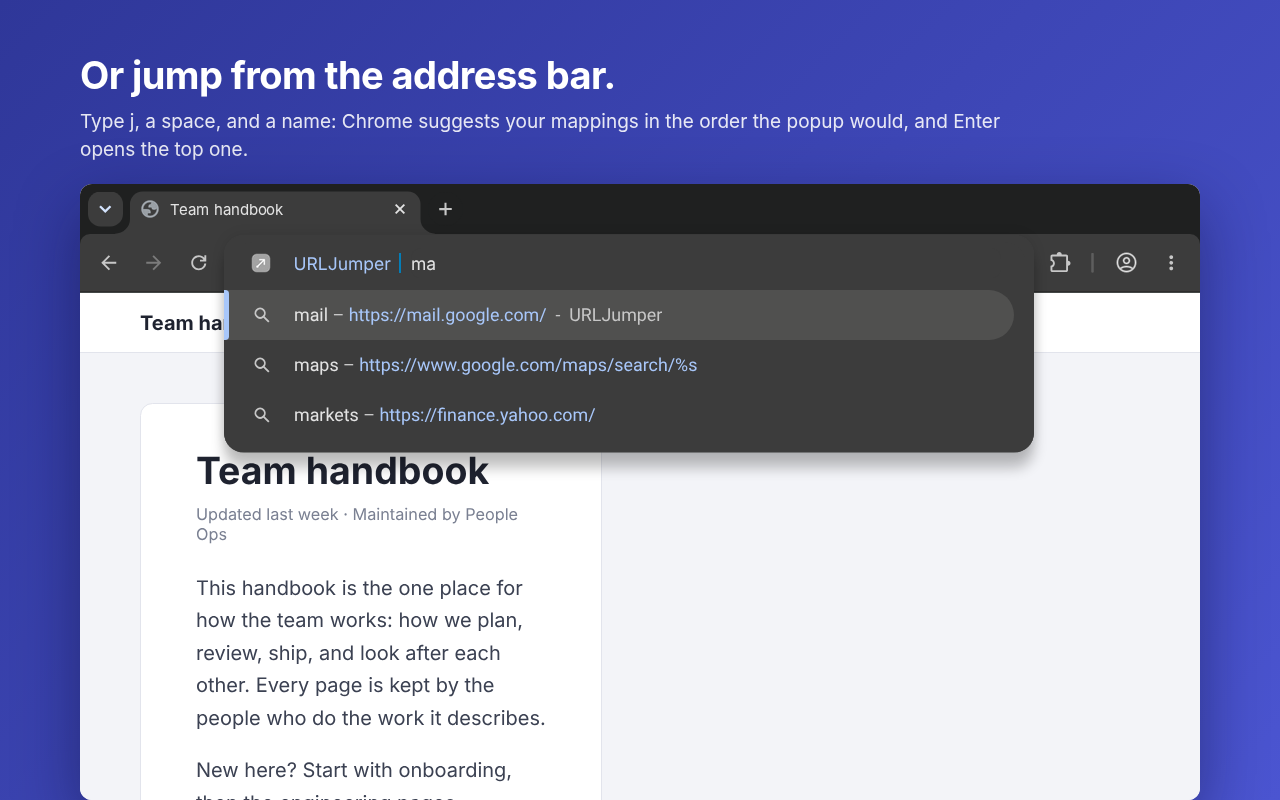
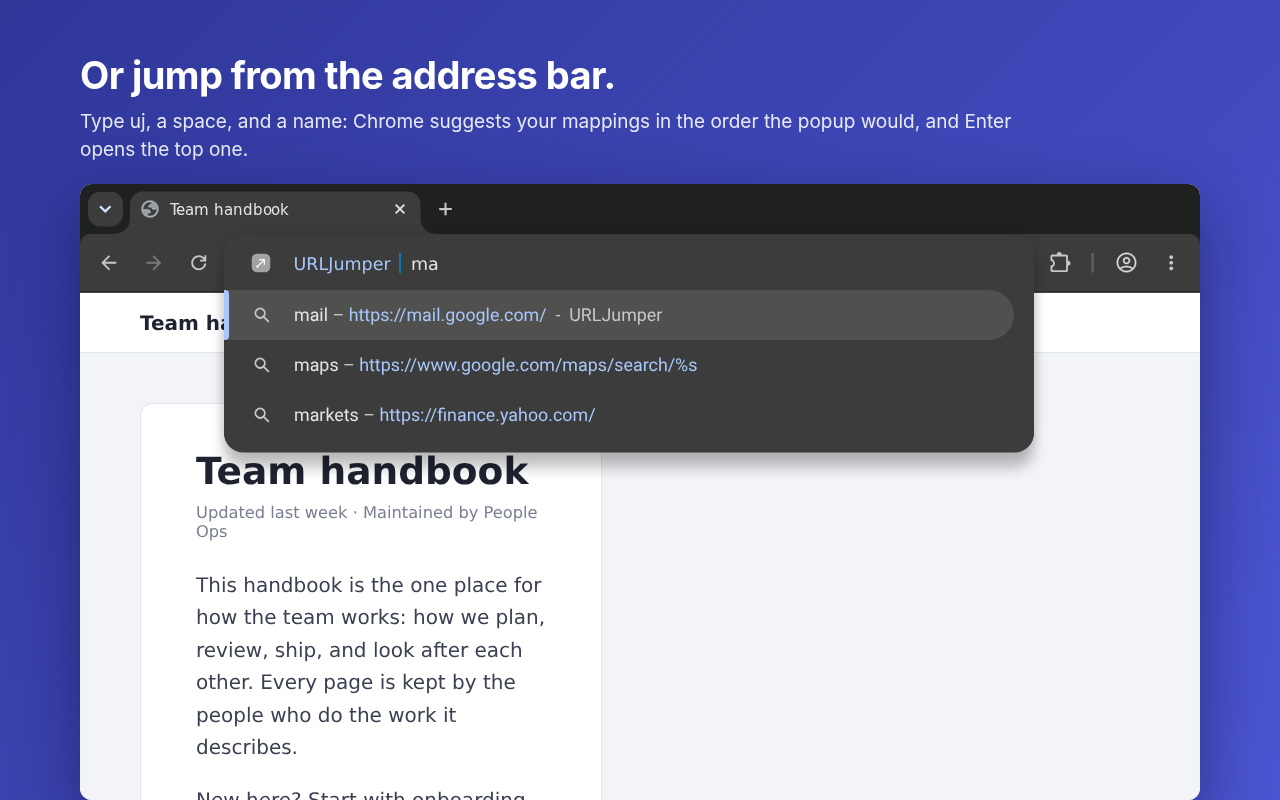
Make the address-bar keyword uj, freeing j for users' own site searches
Chrome gives an extension's omnibox keyword precedence over a site search the
user made with the same keyword, so the keyword j hid any j shortcut of the
user's own, with no way to change it short of disabling the extension. The
keyword is now uj, one a user is unlikely to have made; a user's j shortcut is
used again once the extension no longer declares j.

F6 and every line naming the keyword move to uj, and S16 records Chrome's rule
for conflicting keywords. The what's-new page, the store listing and its
address-bar screenshot, the release instructions, and the checks follow.

diff --git a/e2e/address-bar.spec.ts b/e2e/address-bar.spec.ts
@@ -1,4 +1,4 @@
-// The address-bar keyword `j` (In use, "Jump from the address bar"; F6, G28): the text typed after it lists the
+// The address-bar keyword `uj` (In use, "Jump from the address bar"; F6, G28): the text typed after it lists the
 // popup's mappings for the same text, groups (a) to (e) in G2's order, row 1 the default, each described by
 // its name and URL in XML Chrome parses; Enter opens the row Chrome hands back, from the `omnibox` record the
 // worker keeps (State; S2, S7), through the one jump, which records the use (G26), in the tab Chrome's
@@ -166,7 +166,7 @@ test("Chrome's own autocomplete shows the list in its order however long it is, 
   const shown = await chromeShows(extension.context, 'a');
   // Chrome shows a tab in a name as nothing, so the third row reads like the second.
   expect(shown.map(({ contents }) => contents)).toEqual(['a – https://a.example/', 'ab – https://ab.example/', 'ab – https://atb.example/']);
-  expect(shown.map(({ fillIntoEdit }) => fillIntoEdit)).toEqual(['j a', 'j ab', 'j ab (line 3)']);
+  expect(shown.map(({ fillIntoEdit }) => fillIntoEdit)).toEqual(['uj a', 'uj ab', 'uj ab (line 3)']);
 });
 
 test("every description is XML Chrome's parser takes, reading as the name and the URL, as row 1 and as a later row", async ({ extension }) => {

diff --git a/e2e/address-bar.ts b/e2e/address-bar.ts
@@ -1,4 +1,4 @@
-// Chrome's address bar, which headless Chrome cannot show: what a check needs to type after the keyword `j`
+// Chrome's address bar, which headless Chrome cannot show: what a check needs to type after the keyword `uj`
 // and press Enter there, re-exported by e2e/extension.ts. `addressBar` dispatches Chrome's omnibox events to the
 // worker's own listeners with the arguments Chrome passes; what the worker hands Chrome is recorded on the
 // way and still reaches it. `chromeShows` has Chrome's own autocomplete call the worker and reads the rows it shows.
@@ -114,7 +114,7 @@ export async function chromeShows(context: BrowserContext, text: string): Promis
       await page.getByRole('button', { name: 'Disable internal debugging pages', exact: true }).waitFor();
     }
     await page.goto('chrome://omnibox');
-    const input = `j ${text}`;
+    const input = `uj ${text}`;
     await page.locator('#input-text').fill(input);
     // `responsesHistory` is the page's own record of each autocomplete pass for the latest input.
     await page.waitForFunction((input) => {

diff --git a/e2e/upgrade-notice.spec.ts b/e2e/upgrade-notice.spec.ts
@@ -386,7 +386,7 @@ test("the what's-new page names URLJumper and the five changes, follows the stor
     'A name typed in full comes first',
     'Search through a name with %s',
     'Name this page',
-    'The keyword j in the address bar',
+    'The keyword uj in the address bar',
     'Smart order',
   ]);
   await expect(items.nth(0)).toContainText('an earlier line');
@@ -395,7 +395,7 @@ test("the what's-new page names URLJumper and the five changes, follows the stor
   await expect(items.nth(2)).toContainText('Name this page in URLJumper');
   await expect(items.nth(2)).toContainText('Name this link in URLJumper');
   await expect(items.nth(2)).toContainText('its last row');
-  await expect(items.nth(3)).toContainText('type j, a space, and a name');
+  await expect(items.nth(3)).toContainText('type uj, a space, and a name');
   await expect(items.nth(4)).toContainText('It is off for you');
   await expect(items.nth(4)).toContainText('Preferences');
   expect(await page.locator('body').textContent()).not.toMatch(/URL Jumper/);

diff --git a/e2e/preferences.spec.ts b/e2e/preferences.spec.ts
@@ -252,14 +252,14 @@ test("a choice Chrome refuses to store leaves the stored one shown and says so w
   await checkFitAndAccessibility(popup);
 });
 
-test('the keyword shows as j, as text in both hosts and in no field', async ({ extension, site }) => {
+test('the keyword shows as uj, as text in both hosts and in no field', async ({ extension, site }) => {
   await extension.seedStorage({ mappings: DOC });
   const options = await optionsPage(extension);
   const { popup } = await settingsInPopup(extension, site);
   for (const page of [popup, options]) {
     const section = page.getByRole('region', { name: 'Address bar' });
-    await expect(section).toContainText("In Chrome's address bar, type j and a space, then a name.");
-    await expect(section.locator('kbd')).toHaveText('j');
+    await expect(section).toContainText("In Chrome's address bar, type uj and a space, then a name.");
+    await expect(section.locator('kbd')).toHaveText('uj');
     await expect(page.getByRole('textbox')).toHaveCount(0);
   }
 });

diff --git a/scripts/web-store-media.ts b/scripts/web-store-media.ts
@@ -103,7 +103,7 @@ const SCREENSHOTS: Record<'jump' | 'name' | 'argument' | 'document' | 'listDark'
   addressBar: {
     file: 'screenshot-6-address-bar.png',
     title: 'Or jump from the address bar.',
-    text: 'Type j, a space, and a name: Chrome suggests your mappings in the order the popup would, and Enter opens the top one.',
+    text: 'Type uj, a space, and a name: Chrome suggests your mappings in the order the popup would, and Enter opens the top one.',
     layout: 'top',
   },
 };
@@ -398,7 +398,7 @@ async function captureAll(display: string, site: { port: number; spki: string },
     dark.focusPage();
     execFileSync('xdotool', ['key', '--clearmodifiers', 'ctrl+l'], { env });
     await sleep(300);
-    execFileSync('xdotool', ['type', '--delay', '120', 'j '], { env });
+    execFileSync('xdotool', ['type', '--delay', '120', 'uj '], { env });
     await sleep(500);
     execFileSync('xdotool', ['type', '--delay', '120', 'ma'], { env });
     await sleep(1500);

diff --git a/e2e/release-zip.spec.ts b/e2e/release-zip.spec.ts
@@ -85,7 +85,7 @@ test("the upload's manifest declares exactly the released extension's keys and v
     'open-same-tab': shortcut('Alt+M'),
     'name-this-page': shortcut('Alt+Shift+N'),
   });
-  expect(manifest.omnibox).toEqual({ keyword: 'j' });
+  expect(manifest.omnibox).toEqual({ keyword: 'uj' });
   expect(manifest.content_security_policy).toEqual({ extension_pages: "default-src 'self'" });
   expect(manifest.background).toEqual({ service_worker: expect.stringMatching(/\.js$/), type: 'module' });
   expect(manifest.action).toEqual({ default_popup: 'popup.html', default_title: 'URLJumper' });

diff --git a/e2e/address-bar-search.spec.ts b/e2e/address-bar-search.spec.ts
@@ -1,4 +1,4 @@
-// Unmatched Enter in the address-bar keyword `j` (F8, G28): one search, through Chrome's configured default
+// Unmatched Enter in the address-bar keyword `uj` (F8, G28): one search, through Chrome's configured default
 // search engine, for the text after the keyword, in the tab Chrome's disposition selects and in the window
 // Enter was pressed in. The engines are real site searches Chrome's settings stores at local addresses, so a
 // hardcoded provider cannot pass. Blank input still opens nothing, and a stored no-match stays a search when

diff --git a/src/service-worker/address-bar.ts b/src/service-worker/address-bar.ts
@@ -1,4 +1,4 @@
-// The address-bar keyword `j` (F6, G28): each input lists the popup's mappings for the text as Chrome's
+// The address-bar keyword `uj` (F6, G28): each input lists the popup's mappings for the text as Chrome's
 // suggestions, and Enter opens the chosen one through the one *jump*, which records the use (G26), or searches
 // unmatched text through Chrome's default engine without recording a mapping use. Both run
 // on the worker's queue, so an input's record is stored before the next input's and before the Enter that

diff --git a/whats-new.html b/whats-new.html
@@ -36,9 +36,9 @@
           </p>
         </li>
         <li>
-          <h2>The keyword <kbd>j</kbd> in the address bar</h2>
+          <h2>The keyword <kbd>uj</kbd> in the address bar</h2>
           <p>
-            In Chrome's address bar, type <kbd>j</kbd>, a space, and a name: Chrome suggests your mappings, in the order
+            In Chrome's address bar, type <kbd>uj</kbd>, a space, and a name: Chrome suggests your mappings, in the order
             the popup lists them, and Enter opens one.
           </p>
         </li>

diff --git a/src/service-worker/address-bar-suggestions.ts b/src/service-worker/address-bar-suggestions.ts
@@ -1,4 +1,4 @@
-// What the address-bar keyword `j` lists and opens (G28), without Chrome's API, which `address-bar.ts` calls:
+// What the address-bar keyword `uj` lists and opens (G28), without Chrome's API, which `address-bar.ts` calls:
 // the popup's list for the typed text, groups (a) to (e), as Chrome's suggestions, each with the content Chrome
 // hands back when it is chosen and the description it shows; the record of that list kept in `omnibox`
 // (State); and which row an entered text opens (How G28).

diff --git a/manifest.config.ts b/manifest.config.ts
@@ -39,6 +39,7 @@ export default defineManifest({
       description: 'Name this page in URLJumper',
     },
   },
-  omnibox: { keyword: 'j' },
+  // Not a single letter: Chrome lets an extension's keyword override a site search the user made with the same one (F6).
+  omnibox: { keyword: 'uj' },
   content_security_policy: { extension_pages: "default-src 'self'" },
 });

diff --git a/PRODUCT_SPECIFICATION.md b/PRODUCT_SPECIFICATION.md
@@ -10,7 +10,7 @@ URLJumper is a Chrome extension for one person who returns to the same web pages
 
 Version 2.0 replaces version 1.x and serves three people. The long-time user has a hand-maintained document, often with comment lines as section headings and columns aligned with spaces; their test is that everything they had still works the same way and nothing moved their lines. The newcomer installs from the Chrome Web Store, sees nothing, and needs a first mapping in without reading a grammar; their test is that they were on a page, gave it a name, and the next time they typed that name they were there. The daily user has dozens to hundreds of mappings and wants the one they use daily to come up first, wants to pass a search term through a name, and wants to reach the popup without taking hands off the keyboard.
 
-What they get, beyond everything 1.x gave (the popup, the document edited as text with Save, Import and Export, Copy tab URL, light and dark theme, two shortcuts): **Name this page**, which turns the current page or a right-clicked link into a mapping with one action and one name; a **List view** that edits the same document line by line without a grammar; **argument aliases**, where a URL containing `%s` takes the text typed after the name; **Smart order**, an optional ranking that puts recently used mappings first; **address matches**, a lower group for the day the user remembers the site but not the name; and an **address-bar keyword**, `j`, that offers the same mappings from Chrome's address bar.
+What they get, beyond everything 1.x gave (the popup, the document edited as text with Save, Import and Export, Copy tab URL, light and dark theme, two shortcuts): **Name this page**, which turns the current page or a right-clicked link into a mapping with one action and one name; a **List view** that edits the same document line by line without a grammar; **argument aliases**, where a URL containing `%s` takes the text typed after the name; **Smart order**, an optional ranking that puts recently used mappings first; **address matches**, a lower group for the day the user remembers the site but not the name; and an **address-bar keyword**, `uj`, that offers the same mappings from Chrome's address bar.
 
 What must not be lost is the document. The extension writes it only when the user saves text, asks for a single-line change, or loads the example mappings into an empty document, and a change is applied as a whole or not at all. Upgrading from 1.x leaves the stored document byte for byte, keeps the search order the user is used to, keeps their theme, and adds no permission that shows a warning.
 
@@ -30,7 +30,7 @@ Accepted limits, each of which also lowers the cost of building it:
 
 **Jump with an argument.** With the line `yt                   https://www.youtube.com/results?search_query=%s` in the document, the user types `yt lo-fi beats`. A row shows the filled URL, `https://www.youtube.com/results?search_query=lo-fi%20beats`; Enter opens it. Typing `yt` alone shows the mapping's URL with `%s` marked and a hint that Space and text fill it; Enter then opens the URL with `%s` empty.
 
-**Jump from the address bar.** The user presses Ctrl+L (⌘L on macOS), types `j`, a space, and `st`. Chrome's suggestions show the same mappings in the same order as the popup would, name and URL; the top match is the default. Enter opens it; Chrome's own modifier for opening a suggestion in a new tab applies. When nonblank text matches nothing, the one suggestion says that Enter searches with the user's default search engine, and Enter searches the text after `j` in the tab Chrome's modifier selects. With nothing typed after the keyword, Enter does nothing.
+**Jump from the address bar.** The user presses Ctrl+L (⌘L on macOS), types `uj`, a space, and `st`. Chrome's suggestions show the same mappings in the same order as the popup would, name and URL; the top match is the default. Enter opens it; Chrome's own modifier for opening a suggestion in a new tab applies. When nonblank text matches nothing, the one suggestion says that Enter searches with the user's default search engine, and Enter searches the text after `uj` in the tab Chrome's modifier selects. With nothing typed after the keyword, Enter does nothing.
 
 **Name this page.** On a page, the user presses Alt+Shift+N, or the key they gave *Name this page* in Chrome's shortcuts page where Chrome left it unassigned (or, in the popup, activates the *Name this page* button). The popup opens on the **Name form**, showing the tab's title and host, the current URL (prefilled, editable), an empty name field with focus, an empty note field, each field with a copy button at its right, and, when the document has comment headings, a *Section* choice whose default is *End of document*. A preview shows the exact line that will be written and where. They type `stocks` and press Enter. The popup shows *Saved "stocks" as line 37* with *Undo* and returns to search. If the name is already used, the form says so with its line number, blocks Save, and offers *Edit "stocks" instead*. If the page's URL already has a mapping, the form says *This page is "‹name›"* and still saves the new name as a second name for the same URL. When Chrome yields no address for the tab, the form shows neither title nor address, says so, and the URL must be typed or pasted.
 
@@ -87,7 +87,7 @@ Behavior outside these assumptions is not promised.
 - **F3.** The document is stored exactly as 1.x stores it: the whole text as one string under the key `mappings` in the extension's local storage (`chrome.storage.local`). The theme preference stays under the key `themePref` with the values `light` and `dark`; its absence means System. Every other stored thing (learned usage, the search-order preference, text drafts, the upgrade notice's state) lives under other keys of the same local storage, never in the document and never in sync storage.
 - **F4.** The grammar of the document is that of 1.x, with one addition. Lines are separated by LF or CRLF. A backslash (`\`) starts a comment that runs to the end of the line wherever it appears. A line that is empty or only whitespace after its comment is removed is blank. Any other line is a mapping line: after leading and trailing whitespace is removed, its URL is the last run of non-whitespace characters, the whitespace before the URL separates, and everything before that whitespace is the name, which may contain whitespace within it. The URL begins with a scheme: an ASCII letter, then any ASCII letters, ASCII digits, `+`, `.`, or `-`, then `:`; letters are matched regardless of case. Names are compared regardless of case; a name that repeats the name of an earlier mapping line is an error. A line that is neither blank nor a mapping line as just defined is an error. The addition: `%s` inside a URL marks where an argument goes; a mapping whose URL contains `%s` is an **argument alias**.
 - **F5.** The keyboard commands are `open-new-tab` (suggested Alt+N; the popup opens in New tab mode), `open-same-tab` (suggested Alt+M; This tab mode), both with the identifiers and suggested keys they had in 1.x so that Chrome keeps shortcuts users assigned to them, and `name-this-page` (suggested Alt+Shift+N; the popup opens on the Name form). All three are changeable only in Chrome's shortcuts page.
-- **F6.** The address-bar keyword is `j`, declared in the manifest.
+- **F6.** The address-bar keyword is `uj`, declared in the manifest. It is not a single letter: Chrome gives an extension's keyword precedence over a site search the user made with the same shortcut, so the keyword is one a user is unlikely to have made for themselves.
 - **F7.** The right-click menu items are *Name this page in URLJumper*, shown on pages, and *Name this link in URLJumper*, shown on links.
 - **F8.** The permissions are the three 1.x declared, storage, activeTab, and clipboardWrite, plus contextMenus and search, the address-bar keyword, and the commands. The search permission lets unmatched address-bar Enter use Chrome's configured default search engine. Nothing added carries an install or update warning, so a 1.x user is never asked to accept a permission at upgrade; `tabs`, `history`, `favicon`, and host permissions are not declared.
 - **F9.** An argument is substituted for every `%s` in the URL after percent-encoding as a URI component: letters, digits, and `- _ . ! ~ * ' ( )` stay, every other character is encoded as its UTF-8 bytes, and a space becomes `%20`. With no argument, every `%s` is removed.
@@ -166,7 +166,7 @@ Smart order:
 
 Address bar:
 
-- **G28.** While the address bar is in URLJumper's keyword mode for `j`, the suggestions are groups (a) to (e) of G1 for the text typed, in the order of G1 and G2, as many as Chrome shows, each showing the name and the URL (the filled URL for the argument row); the top match is the default suggestion. Enter opens the selected suggestion as G6 opens it, in the tab Chrome's own modifier for new-tab opening selects. When nonblank text matches nothing, the one suggestion says that Enter searches with the user's default search engine, and Enter searches the text after `j` through Chrome's configured default search engine, in the tab Chrome's modifier selects; no search is made before Enter. With nothing typed after the keyword, or only whitespace, Enter does nothing. A mapping jump from here is a use (G26); a search changes neither mappings nor learned usage.
+- **G28.** While the address bar is in URLJumper's keyword mode for `uj`, the suggestions are groups (a) to (e) of G1 for the text typed, in the order of G1 and G2, as many as Chrome shows, each showing the name and the URL (the filled URL for the argument row); the top match is the default suggestion. Enter opens the selected suggestion as G6 opens it, in the tab Chrome's own modifier for new-tab opening selects. When nonblank text matches nothing, the one suggestion says that Enter searches with the user's default search engine, and Enter searches the text after `uj` through Chrome's configured default search engine, in the tab Chrome's modifier selects; no search is made before Enter. With nothing typed after the keyword, or only whitespace, Enter does nothing. A mapping jump from here is a use (G26); a search changes neither mappings nor learned usage.
 
 Right-click menu:
 
@@ -188,14 +188,14 @@ Everyone:
 - **L2.** The technical writer and builder choose the visual layout, typefaces, colors, spacing, and exact wording of messages, under G7, G32, and this constraint: every validation error names its line number, every confirmation of a single-line change names the name and the line, and the footer always states what Enter does.
 - **L3.** The technical writer chooses the use-score formula and its storage under G26 and G27.
 - **L4.** The technical writer chooses which key, besides Tab to the pencil, edits the selected row in the popup, under this constraint: it works on Windows, macOS, and Linux, it is not a combination Chrome reserves, and no shortcut key in the popup deletes a line (Delete is a control, activated like any other).
-- **L5.** The technical writer chooses the storage keys for everything F3 leaves unnamed, the text shown for a heading in the Section choice (its comment text is the constraint), and the contents of the bundled what's-new page, which names the exact-name change, `%s`, Name this page, the keyword `j`, and Smart order.
+- **L5.** The technical writer chooses the storage keys for everything F3 leaves unnamed, the text shown for a heading in the Section choice (its comment text is the constraint), and the contents of the bundled what's-new page, which names the exact-name change, `%s`, Name this page, the keyword `uj`, and Smart order.
 - **L6.** The technical writer chooses how a document of a size permitted by E3 is rendered in the List view, under G3 and G32.
 
 ## Done when
 
 - A fresh profile runs 1.3.0 with a saved document holding aligned columns, a comment heading, a mapping with a trailing comment, a blank line, and a tab; the theme is set to dark and Alt+N is reassigned to Alt+J in Chrome. 2.0 is installed over it. The stored `mappings` value is byte-identical to the one saved before; the theme is dark; Alt+J opens the popup; the Preferences show Document order; typing a prefix shared by two names lists them in line order, and typing in full a name that an earlier line's name starts with lists it first.
-- On an ordinary web page whose address holds no `%s`, the user presses the *Name this page* shortcut (Alt+Shift+N, or the key assigned to it in Chrome's shortcuts page where Chrome left Alt+Shift+N unassigned), types a new name, and presses Enter. The document gains exactly one line, after its last line that holds more than whitespace, formed per F12, and every other byte is unchanged. Typing that name in the popup and pressing Enter opens that page in a new tab; typing `j`, a space, and that name in the address bar and pressing Enter opens it too.
-- Typing nonblank text that matches no mapping after `j` offers a search; Enter searches through Chrome's configured default engine in the current tab, a new foreground tab, or a new background tab as requested, without changing mappings or usage. Changing Chrome's default engine changes where the next search goes. Blank input opens nothing.
+- On an ordinary web page whose address holds no `%s`, the user presses the *Name this page* shortcut (Alt+Shift+N, or the key assigned to it in Chrome's shortcuts page where Chrome left Alt+Shift+N unassigned), types a new name, and presses Enter. The document gains exactly one line, after its last line that holds more than whitespace, formed per F12, and every other byte is unchanged. Typing that name in the popup and pressing Enter opens that page in a new tab; typing `uj`, a space, and that name in the address bar and pressing Enter opens it too.
+- Typing nonblank text that matches no mapping after `uj` offers a search; Enter searches through Chrome's configured default engine in the current tab, a new foreground tab, or a new background tab as requested, without changing mappings or usage. Changing Chrome's default engine changes where the next search goes. Blank input opens nothing.
 - With `yt` mapped to `https://www.youtube.com/results?search_query=%s`, typing `yt lo-fi beats` and Enter opens `https://www.youtube.com/results?search_query=lo-fi%20beats`; typing `yt` and Enter opens `https://www.youtube.com/results?search_query=`.
 - In a 40-line document with comments, blank lines, tab-separated lines, and one line that is not a mapping, the user renames one mapping in the List view, then moves another mapping up past a heading. Apart from the line endings G12 moves, the document is the original with the renamed line rewritten and the moved line, byte for byte, in its new place; the non-mapping line is listed as unreadable and is unchanged; the moved mapping sits directly before the mapping that preceded it and no other mapping changed its place among the comment and blank lines.
 - The Text view is open in a settings tab on a document with LF line endings, with an unsaved new line in the draft. In another window the user names the current page under a name the draft does not use. Back in the settings tab, Save reports the change and offers to bring it in; after accepting, Save stores a document holding both the named page's line and the draft's line, and nothing else differs from before.
